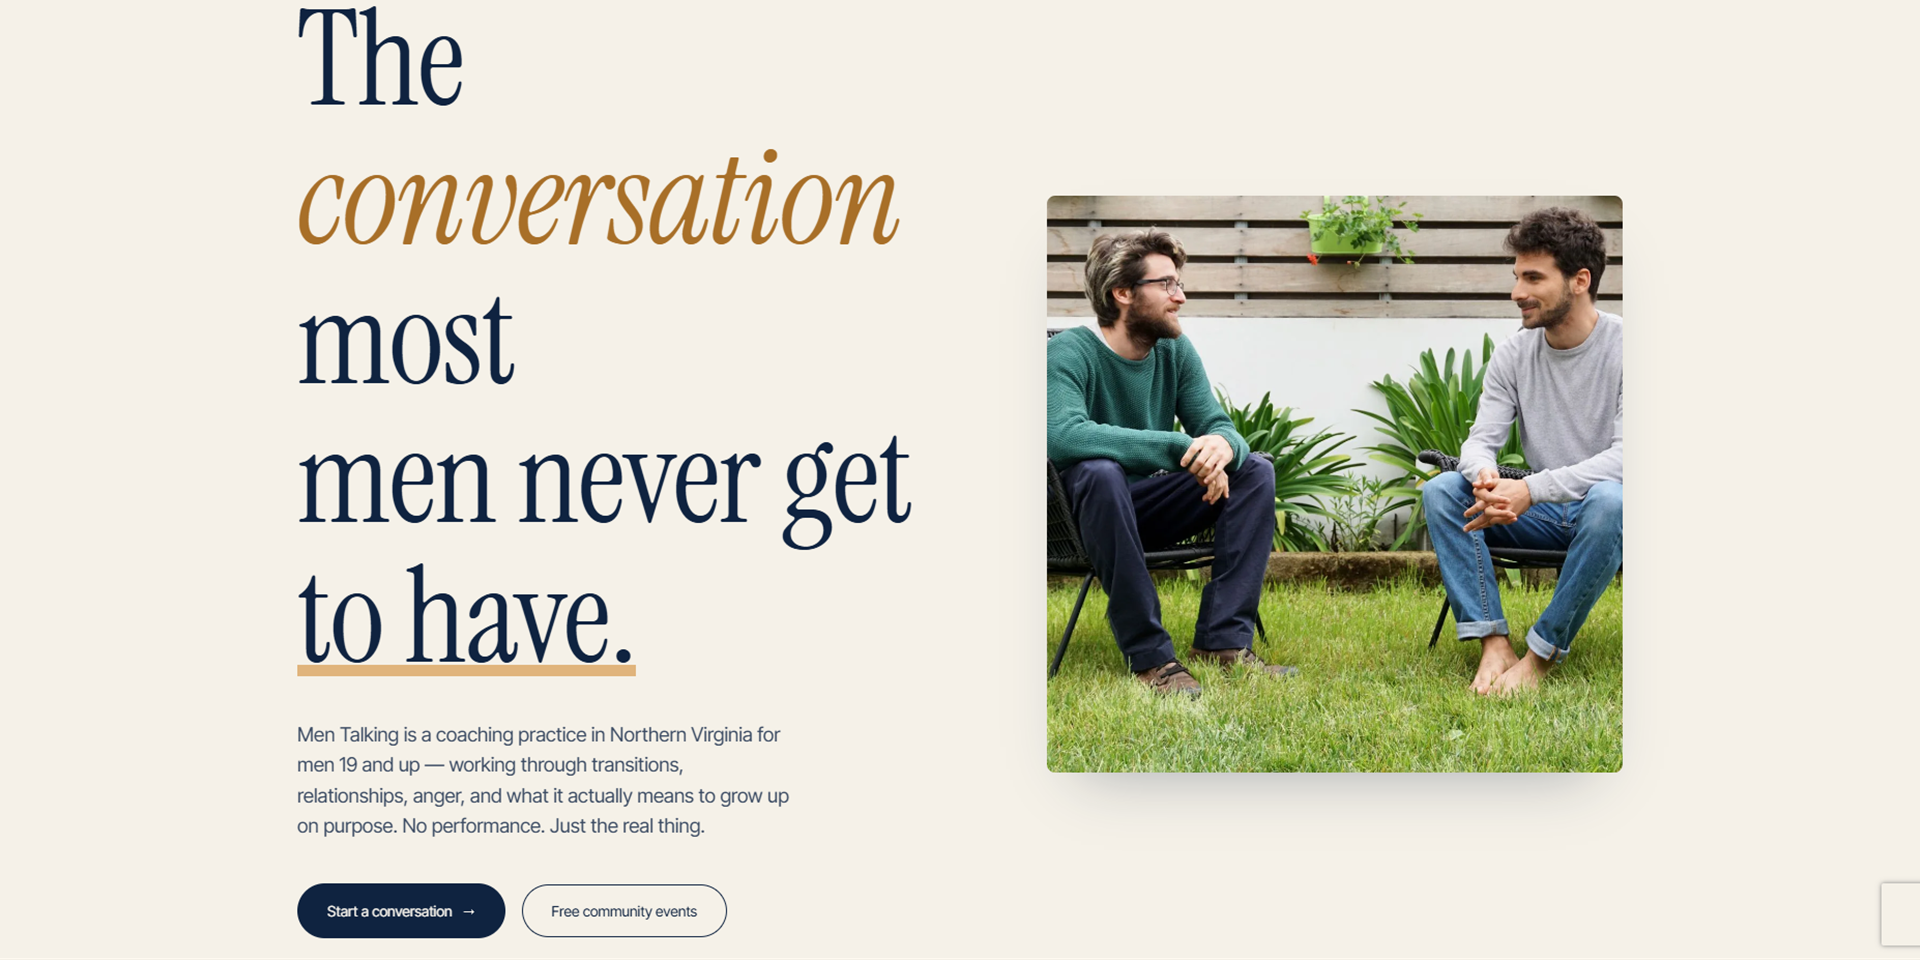
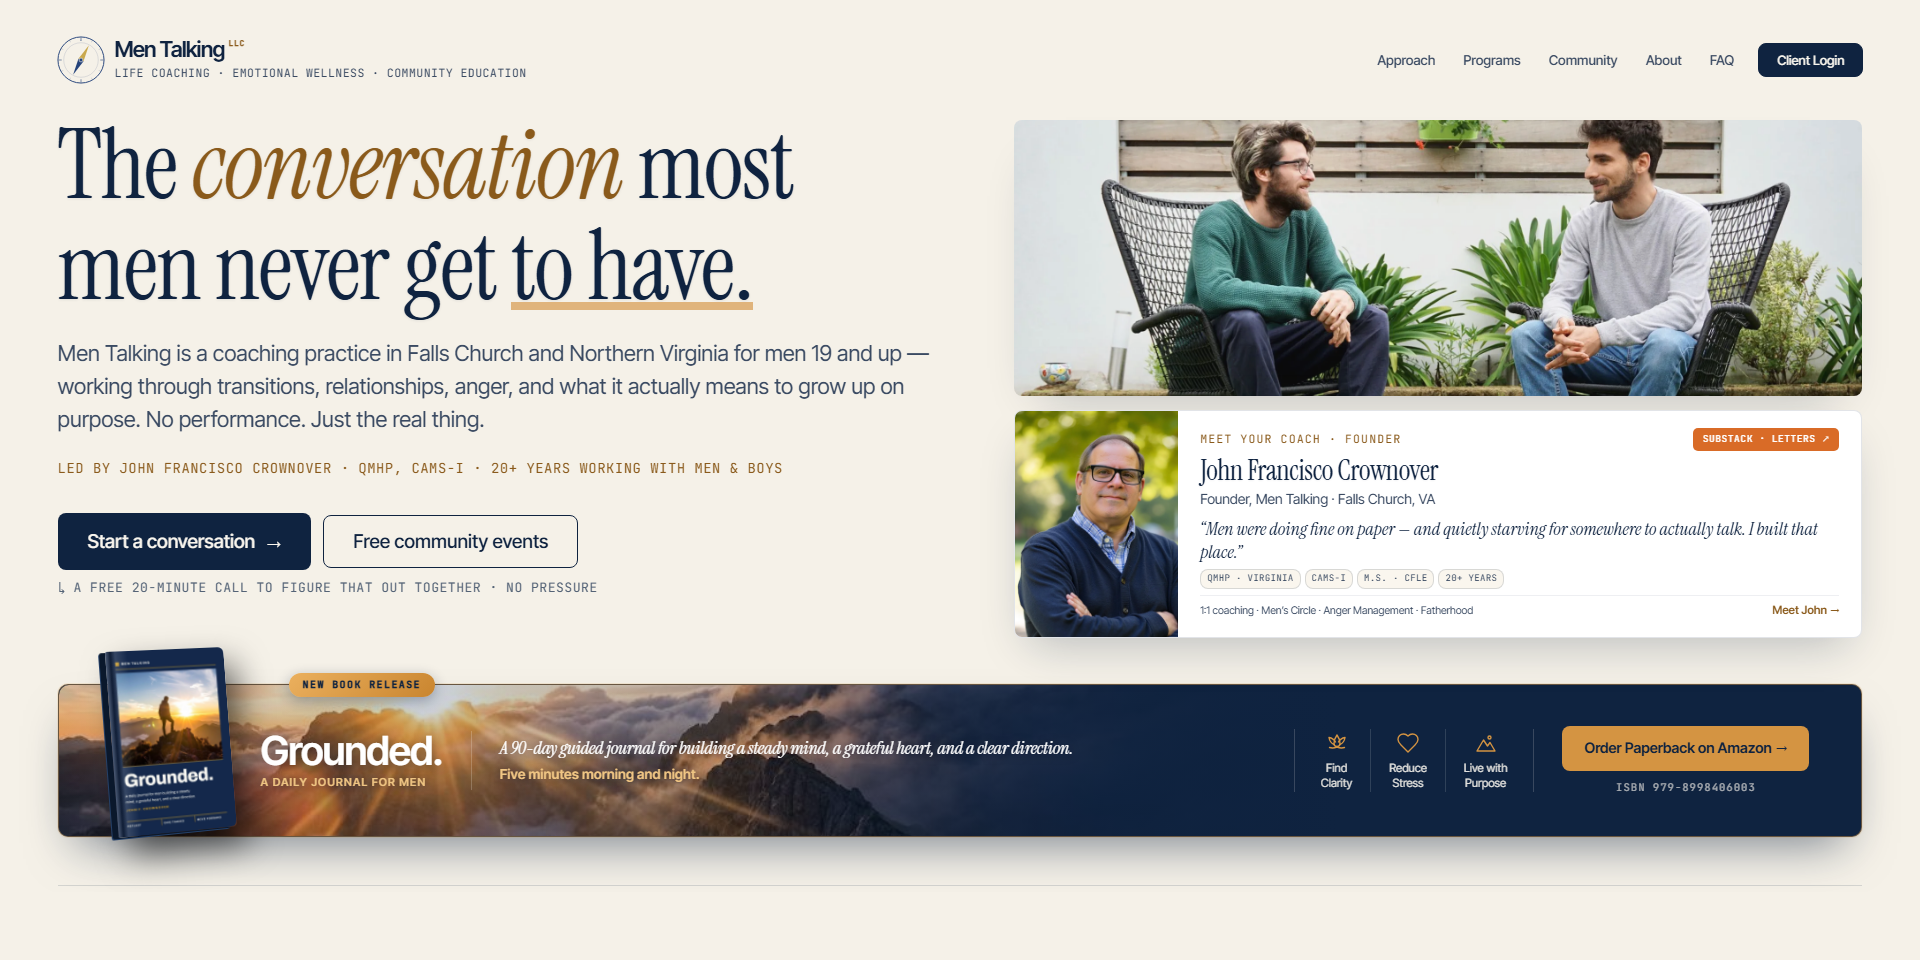
Update Men Talking portfolio imagery and add Live Site link to case study

diff --git a/src/app/portfolio/[slug]/page.tsx b/src/app/portfolio/[slug]/page.tsx
@@ -124,11 +124,22 @@ export default async function ProjectCaseStudy({ params }: PageProps) {
             {cs ? cs.heroHeadline : project.summary}
           </p>
 
-          <div className="pt-2">
+          <div className="pt-2 flex flex-wrap items-center justify-center gap-3">
             <div className="inline-flex items-center gap-2 px-4 py-2 bg-muted/80 border border-border/80 rounded-lg text-xs sm:text-sm font-mono font-semibold text-foreground/90 shadow-sm">
               <Zap className="w-4 h-4 text-accent shrink-0" />
               <span>{project.highlightMetric}</span>
             </div>
+            {!cs?.proofBar && project.liveUrl && (
+              <a
+                href={project.liveUrl}
+                target="_blank"
+                rel="noopener noreferrer"
+                className="inline-flex items-center gap-1.5 px-4 py-2 rounded-lg bg-accent text-accent-foreground text-xs sm:text-sm font-black hover:scale-105 transition-transform shadow-md shadow-accent/20"
+              >
+                <span>{project.liveUrlLabel || 'Live Site'}</span>
+                <ExternalLink className="w-3.5 h-3.5" />
+              </a>
+            )}
           </div>
         </div>
 

diff --git a/src/lib/projects.ts b/src/lib/projects.ts
@@ -84,6 +84,8 @@ export interface Project {
   featured?: boolean;
   tech: string[];
   img: string;
+  liveUrl?: string;
+  liveUrlLabel?: string;
   highlightMetric: string;
   summary: string;
   challenge?: string;
@@ -418,6 +420,8 @@ export const projects: Project[] = [
     featured: true,
     tech: ["Next.js", "TypeScript", "Tailwind CSS", "Vercel", "Ongoing Care"],
     img: "/images/portfolio/men-talking-home.png",
+    liveUrl: "https://realmentalking.com/",
+    liveUrlLabel: "Live Site",
     highlightMetric: "Launch-ready brand site · Ahead-of-deadline delivery · Ongoing maintenance",
     summary: "Calm, typography-led coaching site for Men Talking LLC — leadership, emotional wellness, community, and education with a clear path to start a conversation.",
     challenge: "A new coaching practice needed a polished brand presence before launch: distinctive voice, trustworthy design, and a simple conversion path — delivered on a hard deadline without looking like a template.",
